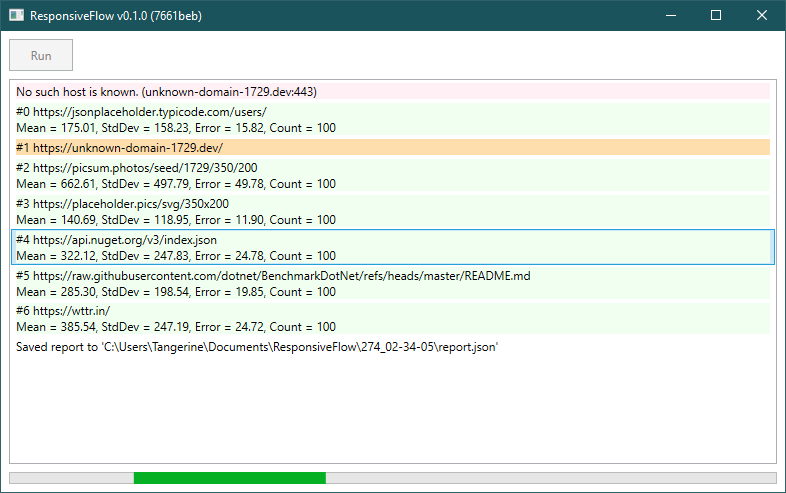
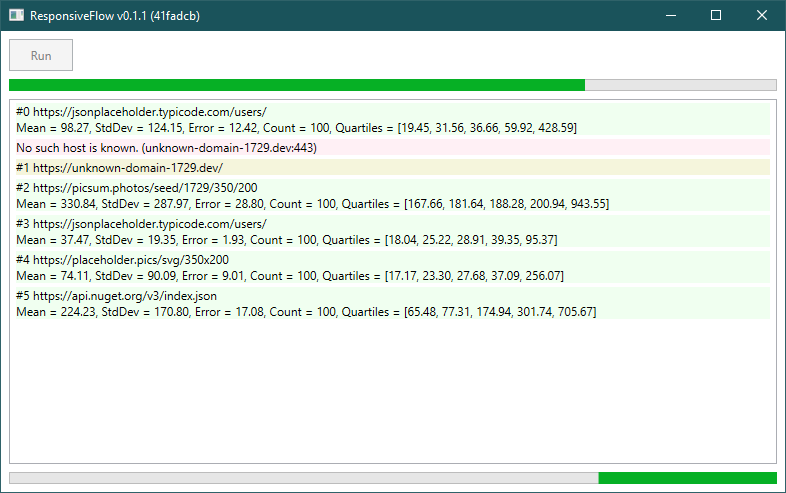
Update Readme

diff --git a/README.md b/README.md
@@ -2,6 +2,8 @@
 
 ResponsiveFlow is a minimalist WPF application that measures the time of HTTP requests.
 
+![](./assets/screenshot.png)
+
 ## Usage
 
 The application accepts the _appsettings.json_ configuration file as input.
@@ -26,9 +28,12 @@ See _src/ResponsiveFlow.Application/appsettings-example.json_ for a reference.
 }
 ```
 
-The continuous progress bar at the bottom of the window shows overall responsiveness rather than actual progress.
+The output report is saved in the subfolder of the directory specified by the `OutputDir` setting.
+If it's omitted, the default is the subfolder in the user's home directory.
+For example _c:/Users/{Username}/Documents/ResponsiveFlow/281_01-49-19/_.
 
-![](./assets/screenshot.png)
+The continuous progress bar at the bottom of the window shows overall responsiveness;
+the actual progress is shown by the progress bar at the top.
 
 ## Implementation details
 
